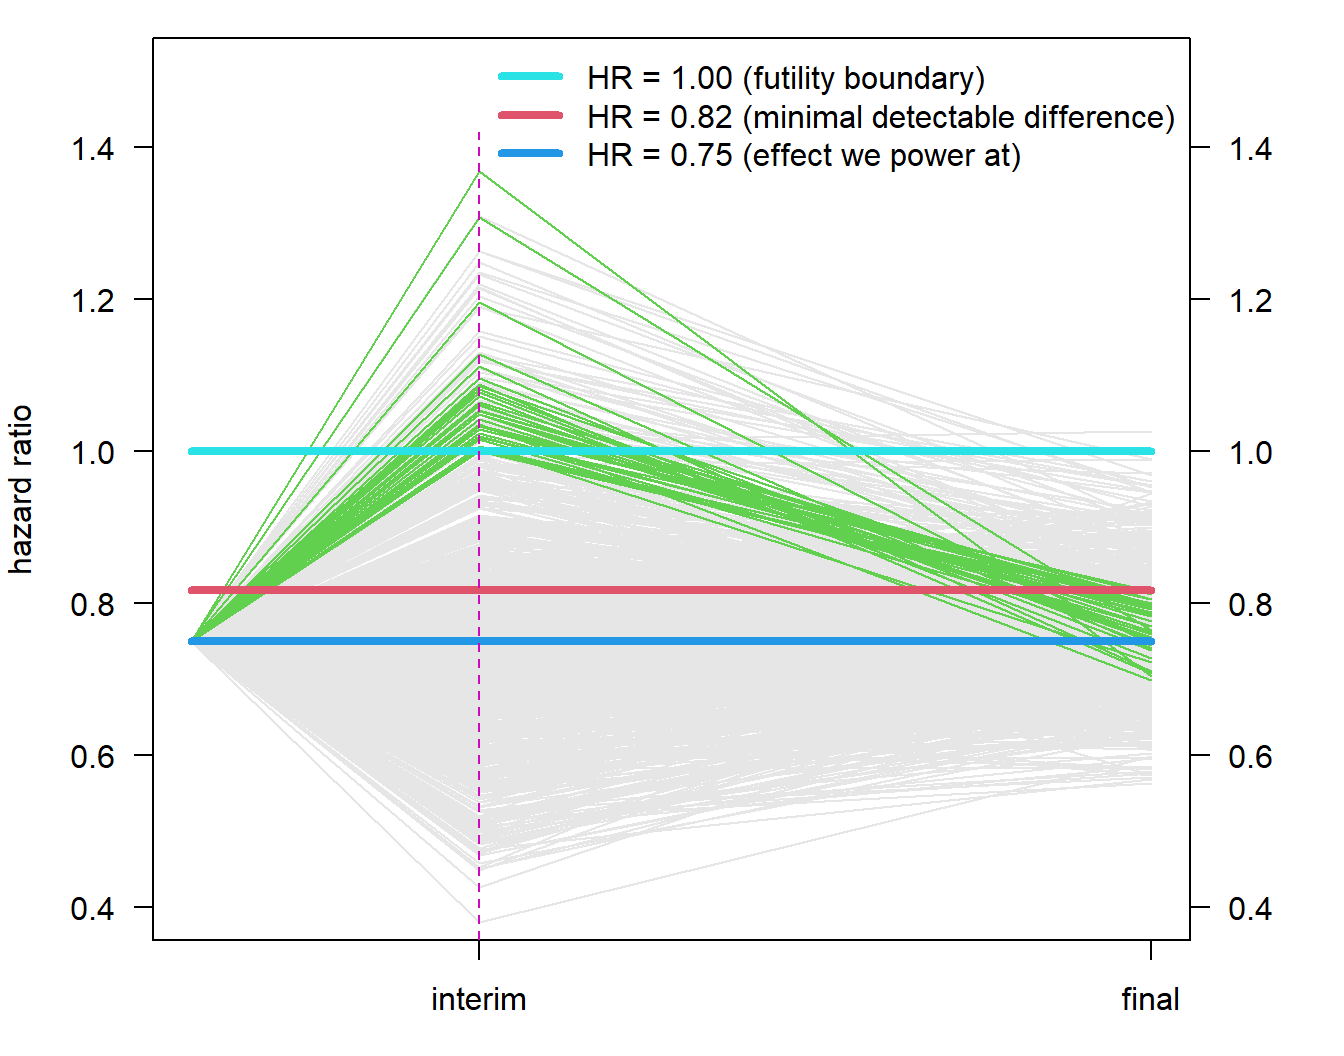
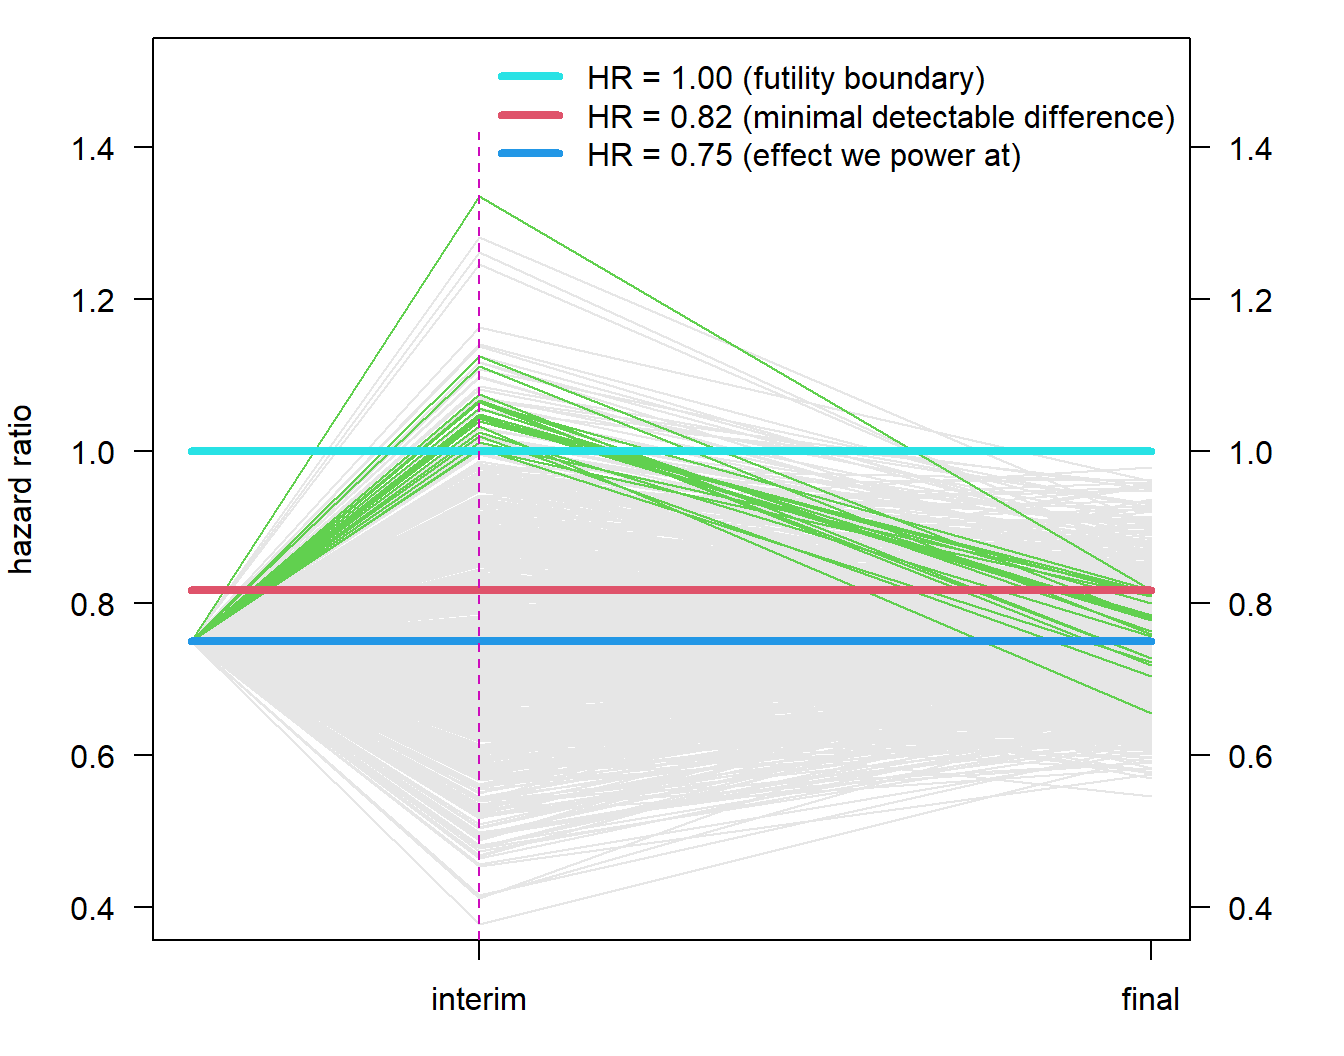
update+

diff --git a/docs/code/futility_fp/20240306_futility_fp.html b/docs/code/futility_fp/20240306_futility_fp.html
@@ -496,7 +496,7 @@ pre > code.sourceCode > span > a:first-child::before { text-decoration: underlin
 </section>
 <section id="quantification-of-power-loss-of-interim-analysis-and-graphical-illustration" class="level1">
 <h1>Quantification of power loss of interim analysis, and graphical illustration</h1>
-<p>We have now 1000 simulated trials with a hazard ratio estimate at the interim and final analysis. First, let us plot results assuming there would be no interim analysis. The horizontal lines correspond to the futility boundary, the minimal detectable difference (i.e.&nbsp;the hazard ratio we need to observe at the final analysis to be statistically significant), and the hazard ratio for which we specified the sample size to have 80% power at. They grey lines illustrate the hazard ratios we observe at the final analysis using these assumptions, with green lines those trials that would be statistically significant, i.e.&nbsp;land below the red horizontal line. These are 79.7% of trials (an estimate of the power).</p>
+<p>We have now 1000 simulated trials with a hazard ratio estimate at the interim and final analysis. First, let us plot results assuming there would be no interim analysis. The horizontal lines correspond to the futility boundary, the minimal detectable difference (i.e.&nbsp;the hazard ratio we need to observe at the final analysis to be statistically significant), and the hazard ratio for which we specified the sample size to have 80% power at. They grey lines illustrate the hazard ratios we observe at the final analysis using these assumptions, with green lines those trials that would be statistically significant, i.e.&nbsp;land below the red horizontal line. These are 79.9% of trials (an estimate of the power).</p>
 <div class="cell" data-layout-align="center">
 <div class="quarto-figure quarto-figure-center">
 <figure class="figure">
@@ -516,7 +516,7 @@ pre > code.sourceCode > span > a:first-child::before { text-decoration: underlin
 </figure>
 </div>
 </div>
-<p>The plot above indicates those 3.8% of trials that would be erronously stopped at the futility interim analysis. This is what is typically called the <font color="red">power loss</font> of the futility interim analysis.</p>
+<p>The plot above indicates those 2.2% of trials that would be erronously stopped at the futility interim analysis. This is what is typically called the <font color="red">power loss</font> of the futility interim analysis.</p>
 
 
 </section>
